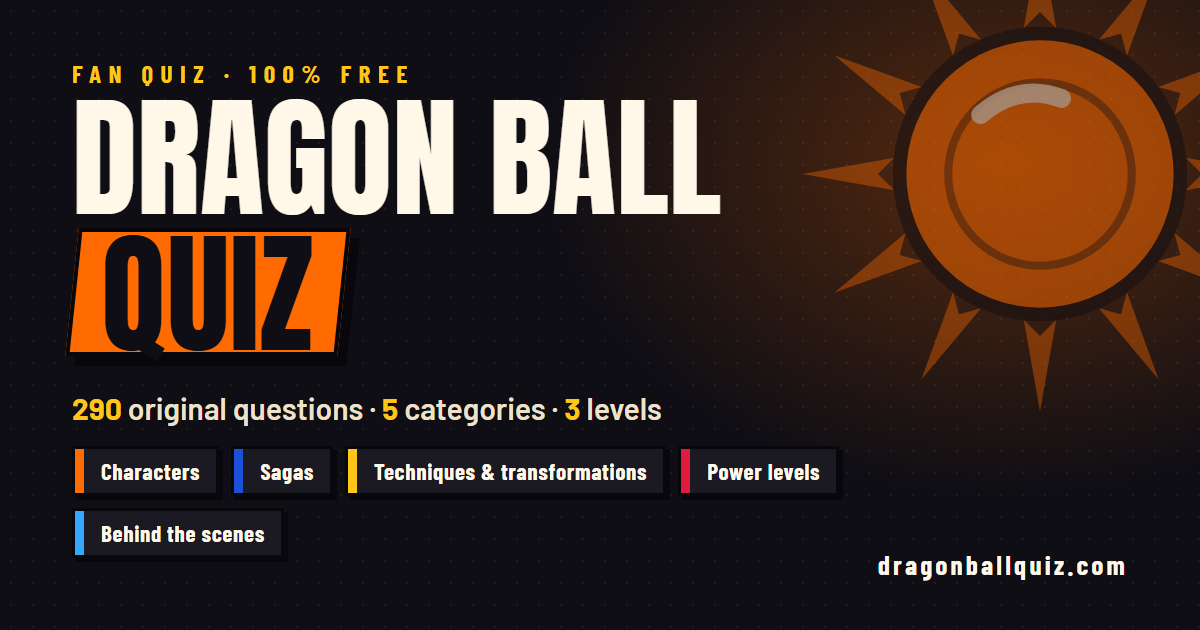
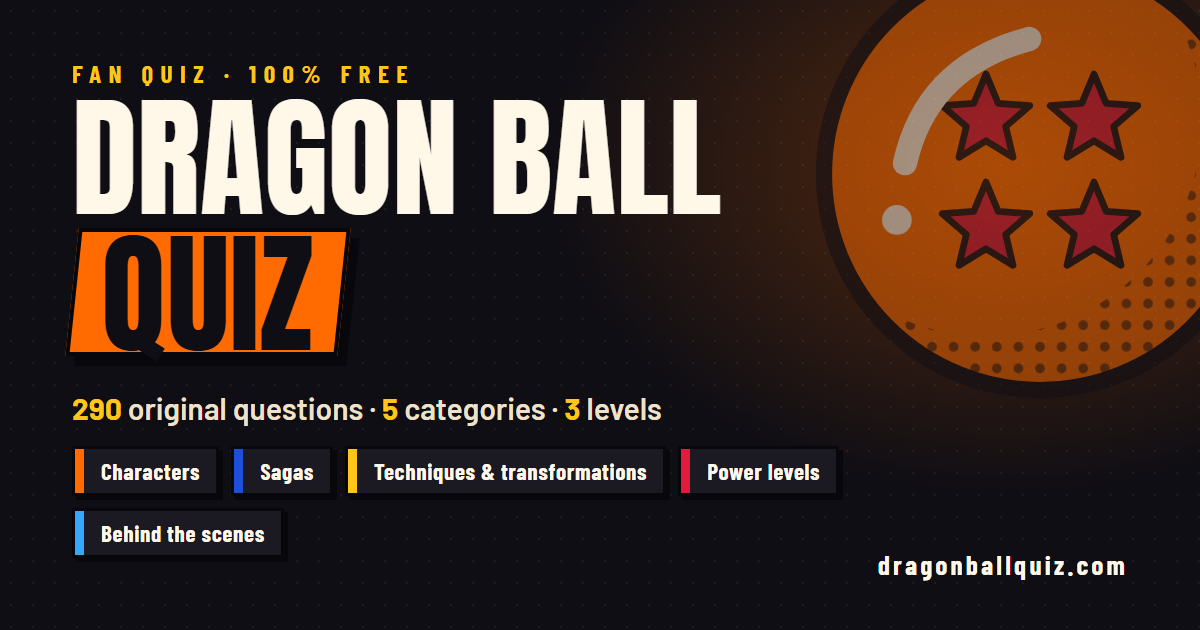
Remplace l'orbe par une boule de cristal dessinee facon quiz book
L'orbe abstraite se lisait comme un soleil. La boule est dessinee en SVG :
aplat orange, contour d'encre, ombre en trame de points, reflet et etoiles
rouges. Un seul dessin, dans src/lib/boule.js, sert a l'accueil, au
resultat et aux images de partage ; l'icone d'onglet reprend la boule a
une etoile.

A l'accueil, elle passe a cote du bloc « Quiz » : en fond, derriere le
selecteur de langue, on n'en voyait plus que le bord.

Changed region(s): [[0.6783, 0.0, 1.0, 0.6333]]

diff --git a/src/lib/boule.js b/src/lib/boule.js
@@ -1,0 +1,85 @@
+/**
+ * Boule de cristal dessinée pour le site, à la manière d'un quiz book imprimé :
+ * aplat orange, contour d'encre épais, ombre en trame de points, reflet blanc
+ * et étoiles rouges cernées d'encre. Dessin original en SVG : aucune image,
+ * aucun artwork repris de l'œuvre.
+ *
+ * Le dessin est partagé entre le composant `DragonBall` et les images de
+ * partage (`scripts/og-images.mjs`) : une seule source, pas de copie qui
+ * diverge.
+ */
+
+export const CENTRE = 100
+export const RAYON = 80
+
+/** Décalage du disque qui découpe l'ombre : la lumière vient d'en haut à gauche. */
+export const DECALAGE_OMBRE = 20
+
+// Disposition des étoiles, en décalages depuis le centre, de 1 à 7 étoiles.
+const DISPOSITIONS = {
+  1: { r: 26, points: [[0, 0]] },
+  2: { r: 19, points: [[-22, 0], [22, 0]] },
+  3: { r: 18, points: [[0, -24], [-22, 14], [22, 14]] },
+  4: { r: 17, points: [[-20, -20], [20, -20], [-20, 20], [20, 20]] },
+  5: { r: 14, points: [[0, -32], [-30, -8], [30, -8], [-18, 28], [18, 28]] },
+  6: { r: 13, points: [[-20, -30], [20, -30], [-34, 2], [34, 2], [-18, 32], [18, 32]] },
+  7: { r: 13, points: [[0, 0], [0, -36], [-32, -18], [32, -18], [-32, 18], [32, 18], [0, 36]] },
+}
+
+/** Tracé d'une étoile à cinq branches, pointe en haut. */
+export function cheminEtoile(cx, cy, r) {
+  const sommets = Array.from({ length: 10 }, (_, i) => {
+    const distance = i % 2 === 0 ? r : r * 0.45
+    const angle = -Math.PI / 2 + (i * Math.PI) / 5
+    return `${(cx + distance * Math.cos(angle)).toFixed(1)} ${(cy + distance * Math.sin(angle)).toFixed(1)}`
+  })
+  return `M${sommets.join(' L')} Z`
+}
+
+/** Nombre d'étoiles ramené entre 1 et 7, comme les boules de la série. */
+export const bornerEtoiles = (n) => Math.min(7, Math.max(1, Math.round(Number(n) || 1)))
+
+/** Centres et rayon des étoiles d'une boule à `n` étoiles. */
+export function etoilesDe(n) {
+  const { r, points } = DISPOSITIONS[bornerEtoiles(n)]
+  return points.map(([dx, dy]) => ({ cx: CENTRE + dx, cy: CENTRE + dy, r }))
+}
+
+/**
+ * Contenu SVG de la boule (sans la balise <svg>), pour un viewBox 0 0 200 200.
+ * `id` doit être unique dans la page : il nomme la trame et le masque d'ombre.
+ * Les couleurs acceptent aussi des variables CSS.
+ */
+export function contenuBoule({
+  id = 'boule',
+  teinte = '#ff6b00',
+  encre = '#0f0e14',
+  papier = '#fff7e8',
+  rouge = '#dc1a3b',
+  etoiles = 4,
+} = {}) {
+  const trame = `${id}-trame`
+  const ombre = `${id}-ombre`
+  const traces = etoilesDe(etoiles)
+    .map(
+      ({ cx, cy, r }) =>
+        `<path d="${cheminEtoile(cx, cy, r)}" fill="${rouge}" stroke="${encre}" stroke-width="2.5" stroke-linejoin="round"/>`,
+    )
+    .join('')
+
+  return `<defs>
+<pattern id="${trame}" width="8" height="8" patternUnits="userSpaceOnUse"><circle cx="4" cy="4" r="1.8" fill="${encre}"/></pattern>
+<mask id="${ombre}"><circle cx="${CENTRE}" cy="${CENTRE}" r="${RAYON}" fill="#fff"/><circle cx="${CENTRE - DECALAGE_OMBRE}" cy="${CENTRE - DECALAGE_OMBRE}" r="${RAYON}" fill="#000"/></mask>
+</defs>
+<circle cx="${CENTRE}" cy="${CENTRE}" r="${RAYON}" fill="${teinte}"/>
+${traces}
+<rect width="200" height="200" fill="url(#${trame})" mask="url(#${ombre})" opacity="0.55"/>
+<path d="M50 96 Q58 60 96 50" fill="none" stroke="${papier}" stroke-width="9" stroke-linecap="round"/>
+<circle cx="47" cy="117" r="5.5" fill="${papier}"/>
+<circle cx="${CENTRE}" cy="${CENTRE}" r="${RAYON}" fill="none" stroke="${encre}" stroke-width="6"/>`
+}
+
+/** La boule en SVG autonome, pour les pages générées hors de React. */
+export function bouleSvg({ classe = '', ...options } = {}) {
+  return `<svg class="${classe}" viewBox="0 0 200 200" aria-hidden="true">${contenuBoule(options)}</svg>`
+}

diff --git a/src/components/HomeScreen.jsx b/src/components/HomeScreen.jsx
@@ -6,7 +6,7 @@ import DifficultyPicker from './DifficultyPicker'
 import LanguageSwitch from './LanguageSwitch'
 import Button from './ui/Button'
 import Toggle from './ui/Toggle'
-import KiOrb from './ui/KiOrb'
+import DragonBall from './ui/DragonBall'
 
 export default function HomeScreen({
   category,
@@ -34,12 +34,7 @@ export default function HomeScreen({
   return (
     <div className="mx-auto flex w-full max-w-4xl flex-col gap-8 px-4 py-8 sm:gap-10 sm:py-14">
       {/* ---------------------------------------------------------- Hero */}
-      <header className="relative">
-        <KiOrb
-          className="pointer-events-none absolute -right-8 -top-12 h-36 w-36 opacity-30 sm:h-56 sm:w-56"
-          tone="var(--color-orange)"
-        />
-
+      <header>
         {/* Rangée sans retour à la ligne : c’est le surtitre qui se replie dans
             sa colonne, jamais le sélecteur de langue. Sa hauteur reste celle du
             sélecteur quelle que soit la police, alors qu’avant, la police de
@@ -55,8 +50,14 @@ export default function HomeScreen({
 
         <h1 className="mt-2 font-titre leading-[0.82]">
           <span className="block text-5xl text-paper sm:text-8xl">Dragon Ball</span>
-          <span className="mt-2 inline-block -skew-x-6 border-[3px] border-ink bg-orange px-4 py-1 text-5xl text-ink shadow-[6px_6px_0_0_var(--color-void)] sm:text-8xl">
-            <span className="inline-block skew-x-6">Quiz</span>
+          <span className="mt-2 inline-flex items-center gap-3 sm:gap-5">
+            <span className="inline-block -skew-x-6 border-[3px] border-ink bg-orange px-4 py-1 text-5xl text-ink shadow-[6px_6px_0_0_var(--color-void)] sm:text-8xl">
+              <span className="inline-block skew-x-6">Quiz</span>
+            </span>
+            {/* À côté du bloc, jamais en fond : derrière le sélecteur de langue,
+                on n’en voyait plus que le bord. Taille fixe, donc aucun
+                décalage quand la police arrive. */}
+            <DragonBall className="h-14 w-14 shrink-0 -rotate-12 sm:h-24 sm:w-24" />
           </span>
         </h1>
 

diff --git a/src/lib/boule.test.js b/src/lib/boule.test.js
@@ -1,0 +1,30 @@
+import { describe, expect, it } from 'vitest'
+import { CENTRE, RAYON, bornerEtoiles, contenuBoule, etoilesDe } from './boule'
+
+describe('boule de cristal', () => {
+  it('dessine autant d’étoiles que demandé, de 1 à 7', () => {
+    for (let n = 1; n <= 7; n++) expect(etoilesDe(n)).toHaveLength(n)
+  })
+
+  it('ramène un nombre hors limites entre 1 et 7', () => {
+    expect(bornerEtoiles(0)).toBe(1)
+    expect(bornerEtoiles(12)).toBe(7)
+    expect(bornerEtoiles('trois')).toBe(1)
+  })
+
+  it('garde chaque étoile à l’intérieur de la boule, contour compris', () => {
+    for (let n = 1; n <= 7; n++) {
+      for (const { cx, cy, r } of etoilesDe(n)) {
+        expect(Math.hypot(cx - CENTRE, cy - CENTRE) + r).toBeLessThan(RAYON - 3)
+      }
+    }
+  })
+
+  it('nomme sa trame et son masque d’après l’identifiant reçu', () => {
+    const svg = contenuBoule({ id: 'b1', etoiles: 4 })
+    expect(svg).toContain('id="b1-trame"')
+    expect(svg).toContain('mask="url(#b1-ombre)"')
+    // Les étoiles sont les seuls tracés rouges : le reflet est un trait papier.
+    expect(svg.match(/fill="#dc1a3b"/g)).toHaveLength(4)
+  })
+})

diff --git a/src/components/ui/DragonBall.jsx b/src/components/ui/DragonBall.jsx
@@ -1,0 +1,33 @@
+import { useId } from 'react'
+import { contenuBoule } from '../../lib/boule'
+
+/**
+ * Boule de cristal décorative, dessinée pour le site façon quiz book imprimé
+ * (voir `src/lib/boule.js`). Purement décorative, donc masquée aux lecteurs
+ * d'écran.
+ */
+export default function DragonBall({ className = '', tone = 'var(--color-orange)', etoiles = 4 }) {
+  // Identifiant propre à chaque boule : deux boules dans la page ne doivent
+  // pas se partager leur trame ni leur masque d'ombre.
+  const id = `boule${useId().replace(/[^a-zA-Z0-9_-]/g, '')}`
+
+  return (
+    <svg
+      viewBox="0 0 200 200"
+      className={className}
+      aria-hidden="true"
+      focusable="false"
+      // Contenu statique produit par notre propre code, sans donnée utilisateur.
+      dangerouslySetInnerHTML={{
+        __html: contenuBoule({
+          id,
+          teinte: tone,
+          encre: 'var(--color-ink)',
+          papier: 'var(--color-paper)',
+          rouge: 'var(--color-crimson)',
+          etoiles,
+        }),
+      }}
+    />
+  )
+}

diff --git a/src/components/ResultScreen.jsx b/src/components/ResultScreen.jsx
@@ -2,7 +2,7 @@ import { useEffect, useMemo, useRef, useState } from 'react'
 import Panel from './ui/Panel'
 import Button from './ui/Button'
 import Badge from './ui/Badge'
-import KiOrb from './ui/KiOrb'
+import DragonBall from './ui/DragonBall'
 import ShareButton from './ShareButton'
 import ScoreTable from './ScoreTable'
 import GameHistory from './GameHistory'
@@ -83,8 +83,8 @@ export default function ResultScreen({
           aria-hidden="true"
         />
 
-        <KiOrb
-          className="pointer-events-none absolute -right-10 -top-10 h-40 w-40 opacity-20 sm:h-52 sm:w-52"
+        <DragonBall
+          className="pointer-events-none absolute -right-10 -top-10 h-40 w-40 opacity-35 sm:h-52 sm:w-52"
           tone="var(--color-orange)"
         />
 
